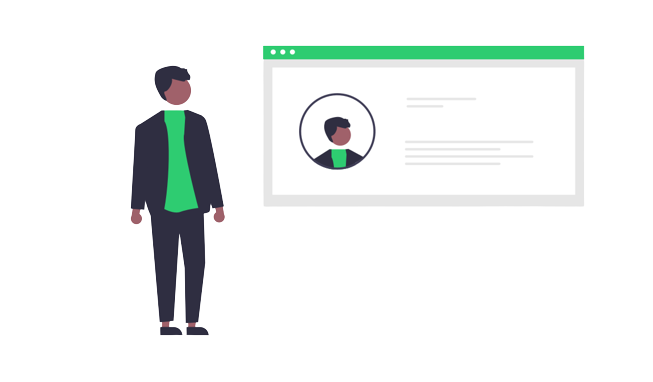
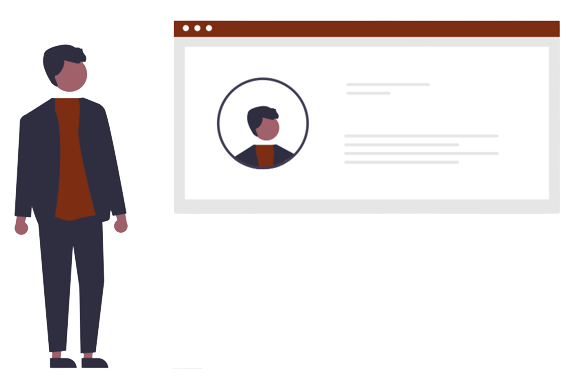
Intro re edit

Changed region(s): [[0.0, 0.0288, 1.0, 0.9791], [0.7812, 0.3455, 0.8438, 0.3743], [0.625, 0.2304, 0.6875, 0.2592]]

diff --git a/components/About.jsx b/components/About.jsx
@@ -4,32 +4,38 @@ import { Link as ScrollLink } from "react-scroll";
 const About = () => {
   return (
     <>
-      <div className="p-4 sm:p-20 sm:flex items-center ">
-        <div className="sm:w-6/12 text-green-600">
-          <h1 className="text-2xl lg:text-4xl">About Me </h1>
-
-          <p className="text-base lg:text-md mt-4 mb-8">
-            I'm from Saltlake city (Kolkata) , completed my B.Tech in the field
-            Electrical Engineering , beside that I have a great potential
-            towards Web Devlopment . I started learning Web Devlopment from Year
-            2020 and fell in love with the concepts of Web Devlopment and then
-            started exploring the technologies like 'Reactjs' , 'Nodejs' ,
-            'Expressjs' , 'MongoDB' , after gathering some basic knowledge about
-            those technologies I started to build my own projects .
-          </p>
-          <div>
-            <ScrollLink to={`skills`}>
-              <button
-                style={{ color: "#2ECC71" }}
-                className="p-2 px-12 shadow-lg font-semibold bg-white rounded border border-green-400 "
-              >
-                My Skills
-              </button>
-            </ScrollLink>
+      <div
+        // style={{ background: "#F9E561" }}
+        className="flex justify-center items-center bg-orange-300 text-amber-900"
+      >
+        <div className="p-8 sm:p-16 flex flex-col gap-6 sm:flex-row items-center justify-between min-h-screen mt-12 w-full max-w-7xl">
+          <div className="sm:w-5/12">
+            <img src="/imgs/about.png" alt="" id="updown" />
           </div>
-        </div>
-        <div className="sm:w-6/12">
-          <img src="/imgs/about.png" alt="" id="updown" />
+          <div className="sm:w-6/12 ">
+            <h1 className="text-3xl lg:text-5xl">About Me </h1>
+
+            <p className="text-base lg:text-md font-light mt-4 mb-8">
+              I'm from Saltlake city (Kolkata) , completed my B.Tech in the
+              field Electrical Engineering , beside that I have a great
+              potential towards Web Devlopment . I started learning Web
+              Devlopment from Year 2020 and fell in love with the concepts of
+              Web Devlopment and then started exploring the technologies like
+              'Reactjs' , 'Nodejs' , 'Expressjs' , 'MongoDB' , after gathering
+              some basic knowledge about those technologies I started to build
+              my own projects .
+            </p>
+            <div>
+              <ScrollLink to={`skills`}>
+                <button
+                  // style={{ color: "#2ECC71" }}
+                  className="p-2 px-12 shadow-lg font-semibold bg-white rounded border  "
+                >
+                  My Skills
+                </button>
+              </ScrollLink>
+            </div>
+          </div>
         </div>
       </div>
     </>

diff --git a/components/Skills.jsx b/components/Skills.jsx
@@ -1,15 +1,15 @@
 import React from "react";
 import { Link as ScrollLink } from "react-scroll";
 
-const Introduction = () => {
+const Skills = () => {
   return (
     <>
       <div
-        // style={{ background: "#eddcd9" }}
-        className="flex justify-center items-center bg-green-400  lg:min-h-screen"
+        // style={{ background: "#F9E561" }}
+        className="flex justify-center items-center bg-amber-300"
       >
-        <div className="p-8  flex flex-col-reverse gap-24 sm:p-16 sm:gap-0 sm:flex-row items-center  mt-12 w-full max-w-7xl ">
-          <div className="sm:w-6/12 ">
+        <div className="p-4 sm:p-16 sm:flex items-center min-h-screen mt-12">
+          <div className="sm:w-5/12 text-green-600">
             <h1 className="text-2xl lg:text-4xl">Hello !</h1>
             <h1 className=" text-4xl lg:text-6xl my-2">
               I&apos;m Santanu Ghosh
@@ -17,27 +17,27 @@ const Introduction = () => {
             <p className="text-md lg:text-xl mb-8">A Fullstack Web Developer</p>
             <div>
               <ScrollLink
-                to={`about`}
+                to={`projects`}
                 spy={true}
-                // offset={-150}
+                offset={-150}
                 smooth={true}
                 duration={500}
               >
                 <button
-                  // style={{ color: "#264143" }}
-                  className="p-2 px-12 shadow-lg font-semibold  rounded bg-slate-900 text-white  "
+                  style={{ color: "#2ECC71" }}
+                  className="p-2 px-12 shadow-lg font-semibold bg-white rounded border border-green-400 "
                 >
-                  Know me
+                  Projects
                 </button>
               </ScrollLink>
             </div>
           </div>
-          <div className="sm:w-6/12 ">
+          <div className="sm:w-7/12">
             <img
-              src="/imgs/hello.png"
+              src="/imgs/skills.png"
               alt=""
               id="updown"
-              className=""
+              className=" sm:-ml-16"
             />
           </div>
         </div>
@@ -46,4 +46,4 @@ const Introduction = () => {
   );
 };
 
-export default Introduction;
+export default Skills;

diff --git a/components/Navbar.jsx b/components/Navbar.jsx
@@ -26,13 +26,18 @@ const Navbar = () => {
   ];
   return (
     <>
-      <div className="p-8 hidden lg:flex fixed top-0 left-0 w-full z-50 bg-white">
+      <div className=" hidden lg:flex fixed top-0 left-0 w-full z-50 bg-transparent">
         <div
-          style={{ background: "#2ECC71" }}
-          className=" w-full text-white shadow-lg rounded-lg p-4 px-6 flex items-center justify-between"
+          // style={{ background: "#264143" }}
+          className=" w-full text-white shadow-lg p-4 px-6 flex items-center justify-between bg-gray-900"
         >
-          <ScrollLink to={`inroduction`}>
-            <div className="flex justify-center items-center gap-2 ">
+          <ScrollLink
+            spy={true}
+            smooth={true}
+            duration={500}
+            to={`introduction`}
+          >
+            <div className="flex justify-center items-center gap-2 cursor-pointer ">
               <div className="flex justify-center items-center">
                 <img src="/imgs/logo.png" className="w-16" />
               </div>
@@ -44,13 +49,13 @@ const Navbar = () => {
               {navLinks.map((nlink, i) => (
                 <div key={i}>
                   <ScrollLink
-                  className="cursor-pointer"
-                    // activeClass="active"
+                    className="cursor-pointer"
+                    activeClass="text-green-300"
                     to={`${nlink.route}`}
                     spy={true}
                     smooth={true}
                     duration={500}
-                    offset={-150}
+                    // offset={-150}
                   >
                     {nlink.name}
                   </ScrollLink>
@@ -60,8 +65,8 @@ const Navbar = () => {
             <div>
               <a href="/Assets/resume.pdf" target="blank">
                 <button
-                  style={{ color: "#2ECC71" }}
-                  className="p-2 px-12 shadow font-semibold bg-white rounded"
+                  style={{ color: "#264143" }}
+                  className="p-2 px-12 shadow font-semibold  bg-white rounded"
                 >
                   Resume
                 </button>

diff --git a/pages/index.js b/pages/index.js
@@ -2,6 +2,7 @@ import Head from "next/head";
 import About from "../components/About";
 import Introduction from "../components/Introduction";
 import Navbar from "../components/Navbar";
+import Skills from "../components/Skills";
 
 export default function Home() {
   return (
@@ -15,12 +16,15 @@ export default function Home() {
       </div>
       <div>
         <Navbar />
-        <div className="lg:mt-36">
+        <div>
           <div id="introduction">
             <Introduction />
           </div>
           <div id="about">
             <About />
+          </div>
+          <div id="skills">
+            <Skills />
           </div>
         </div>
       </div>
